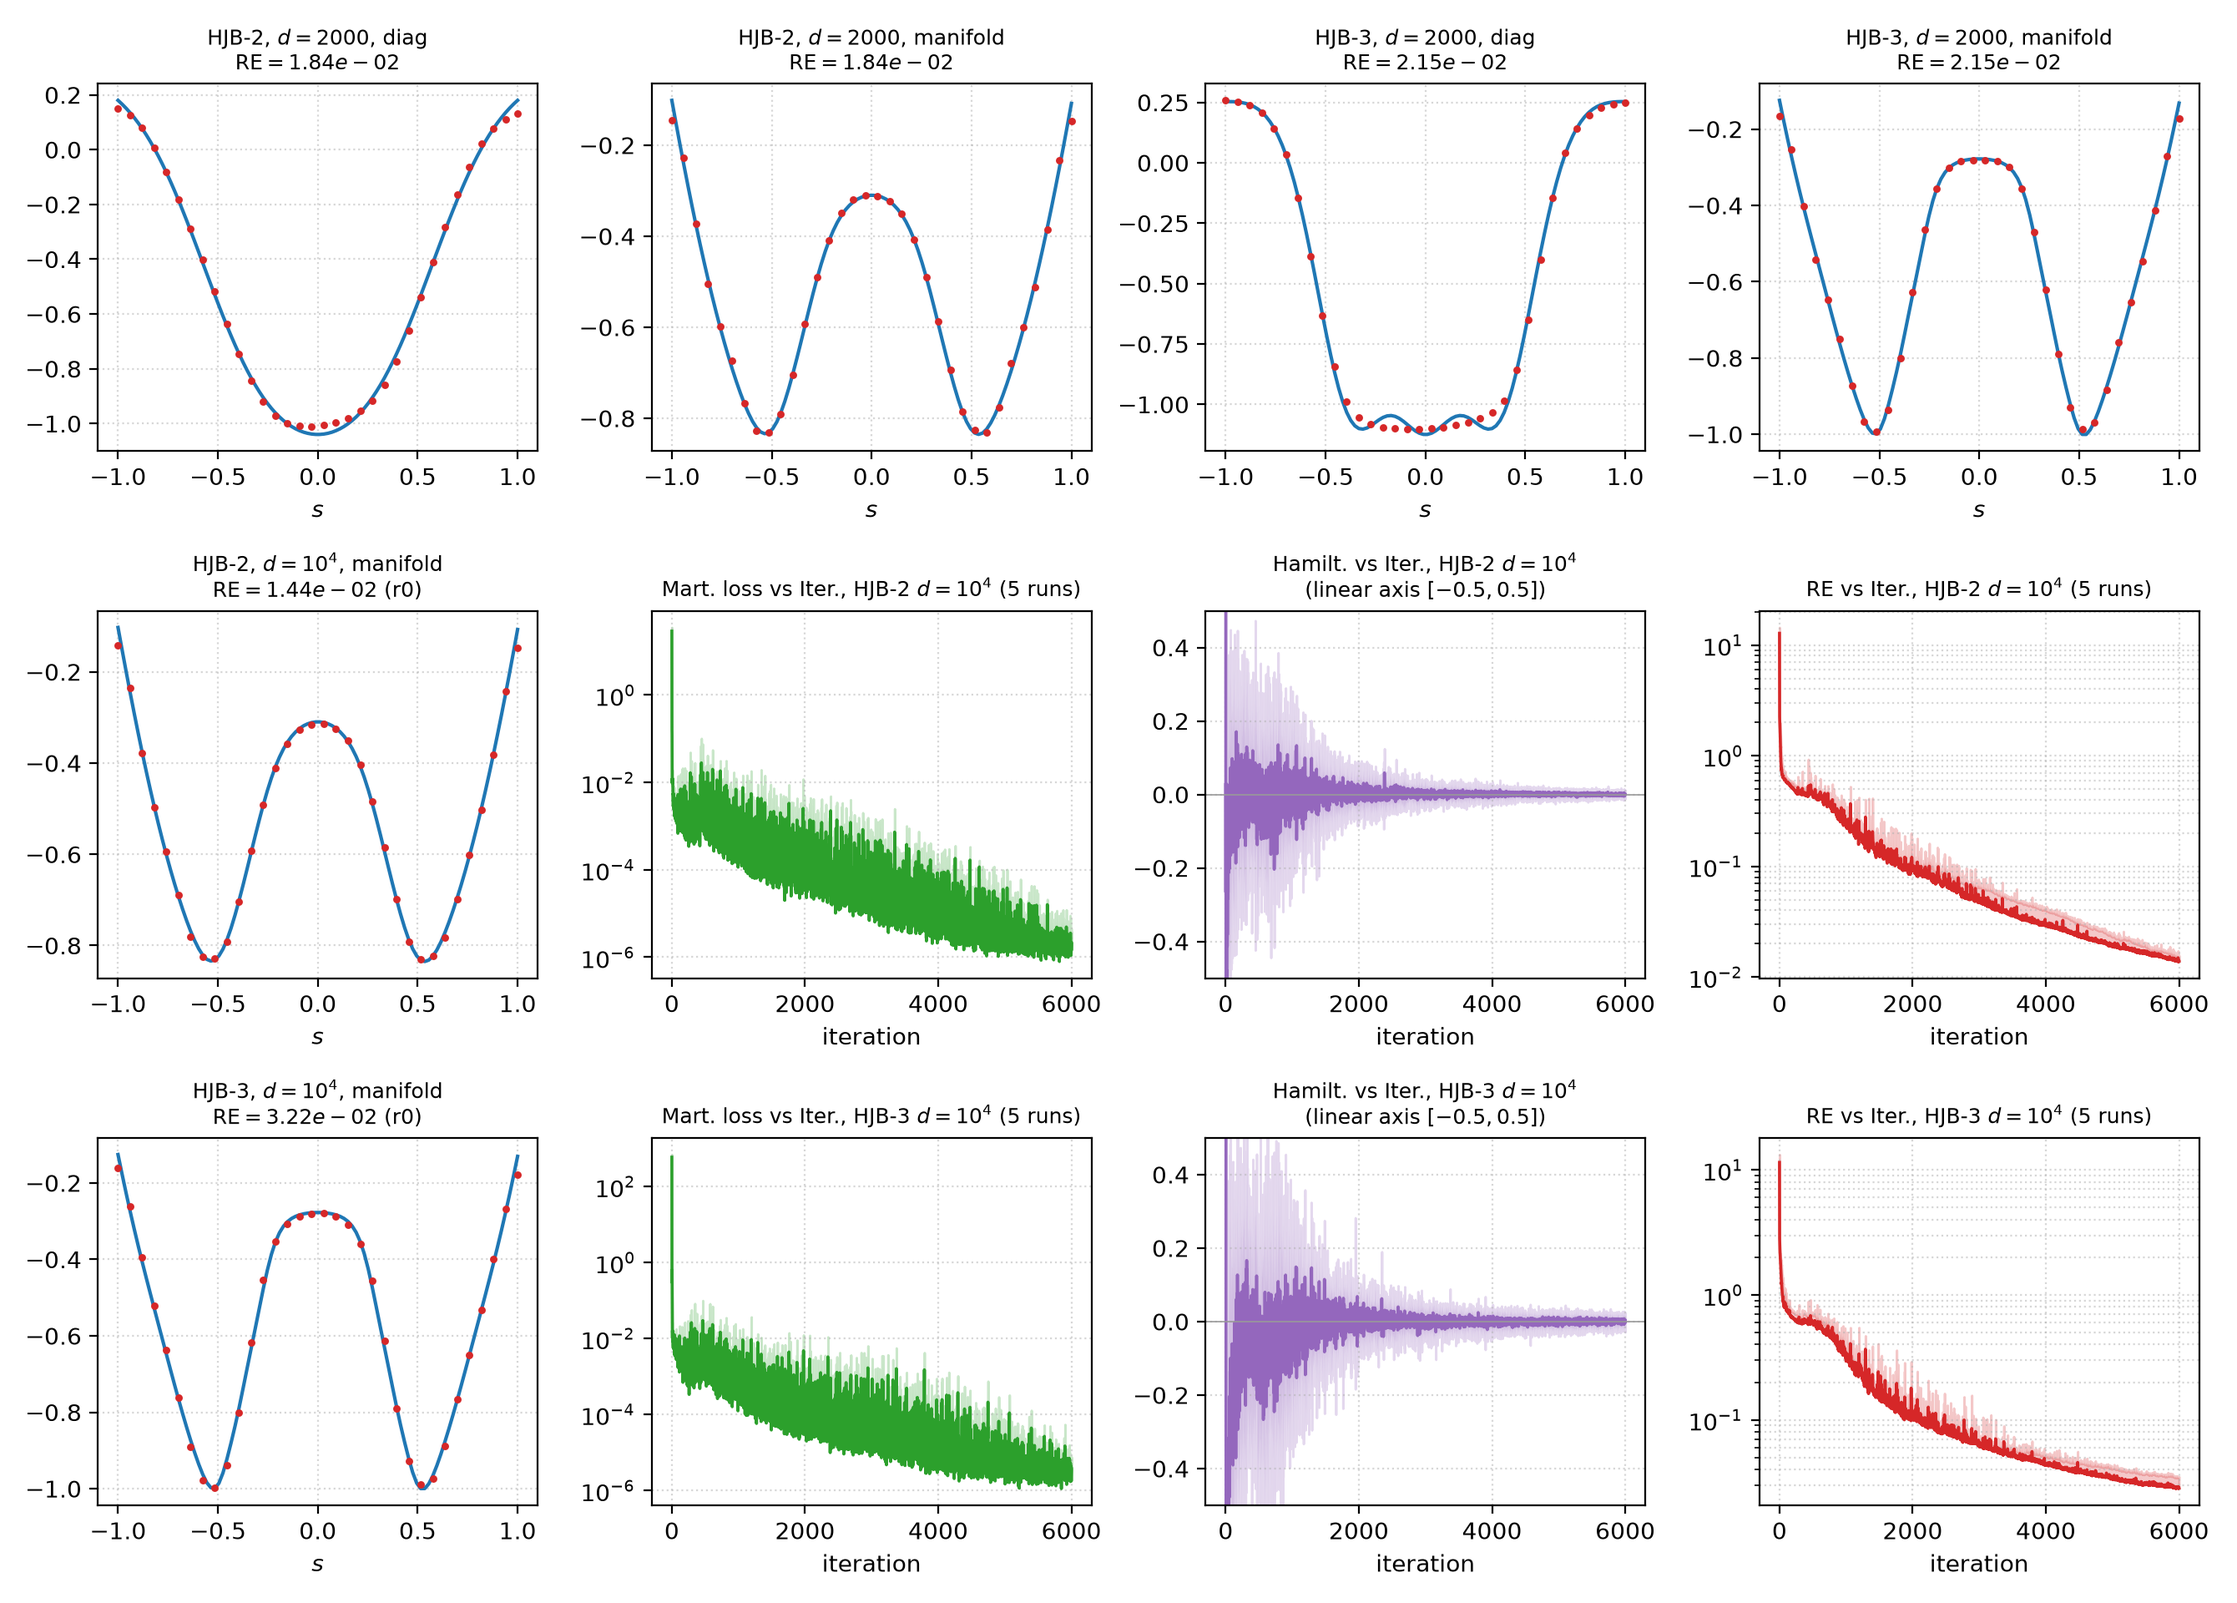
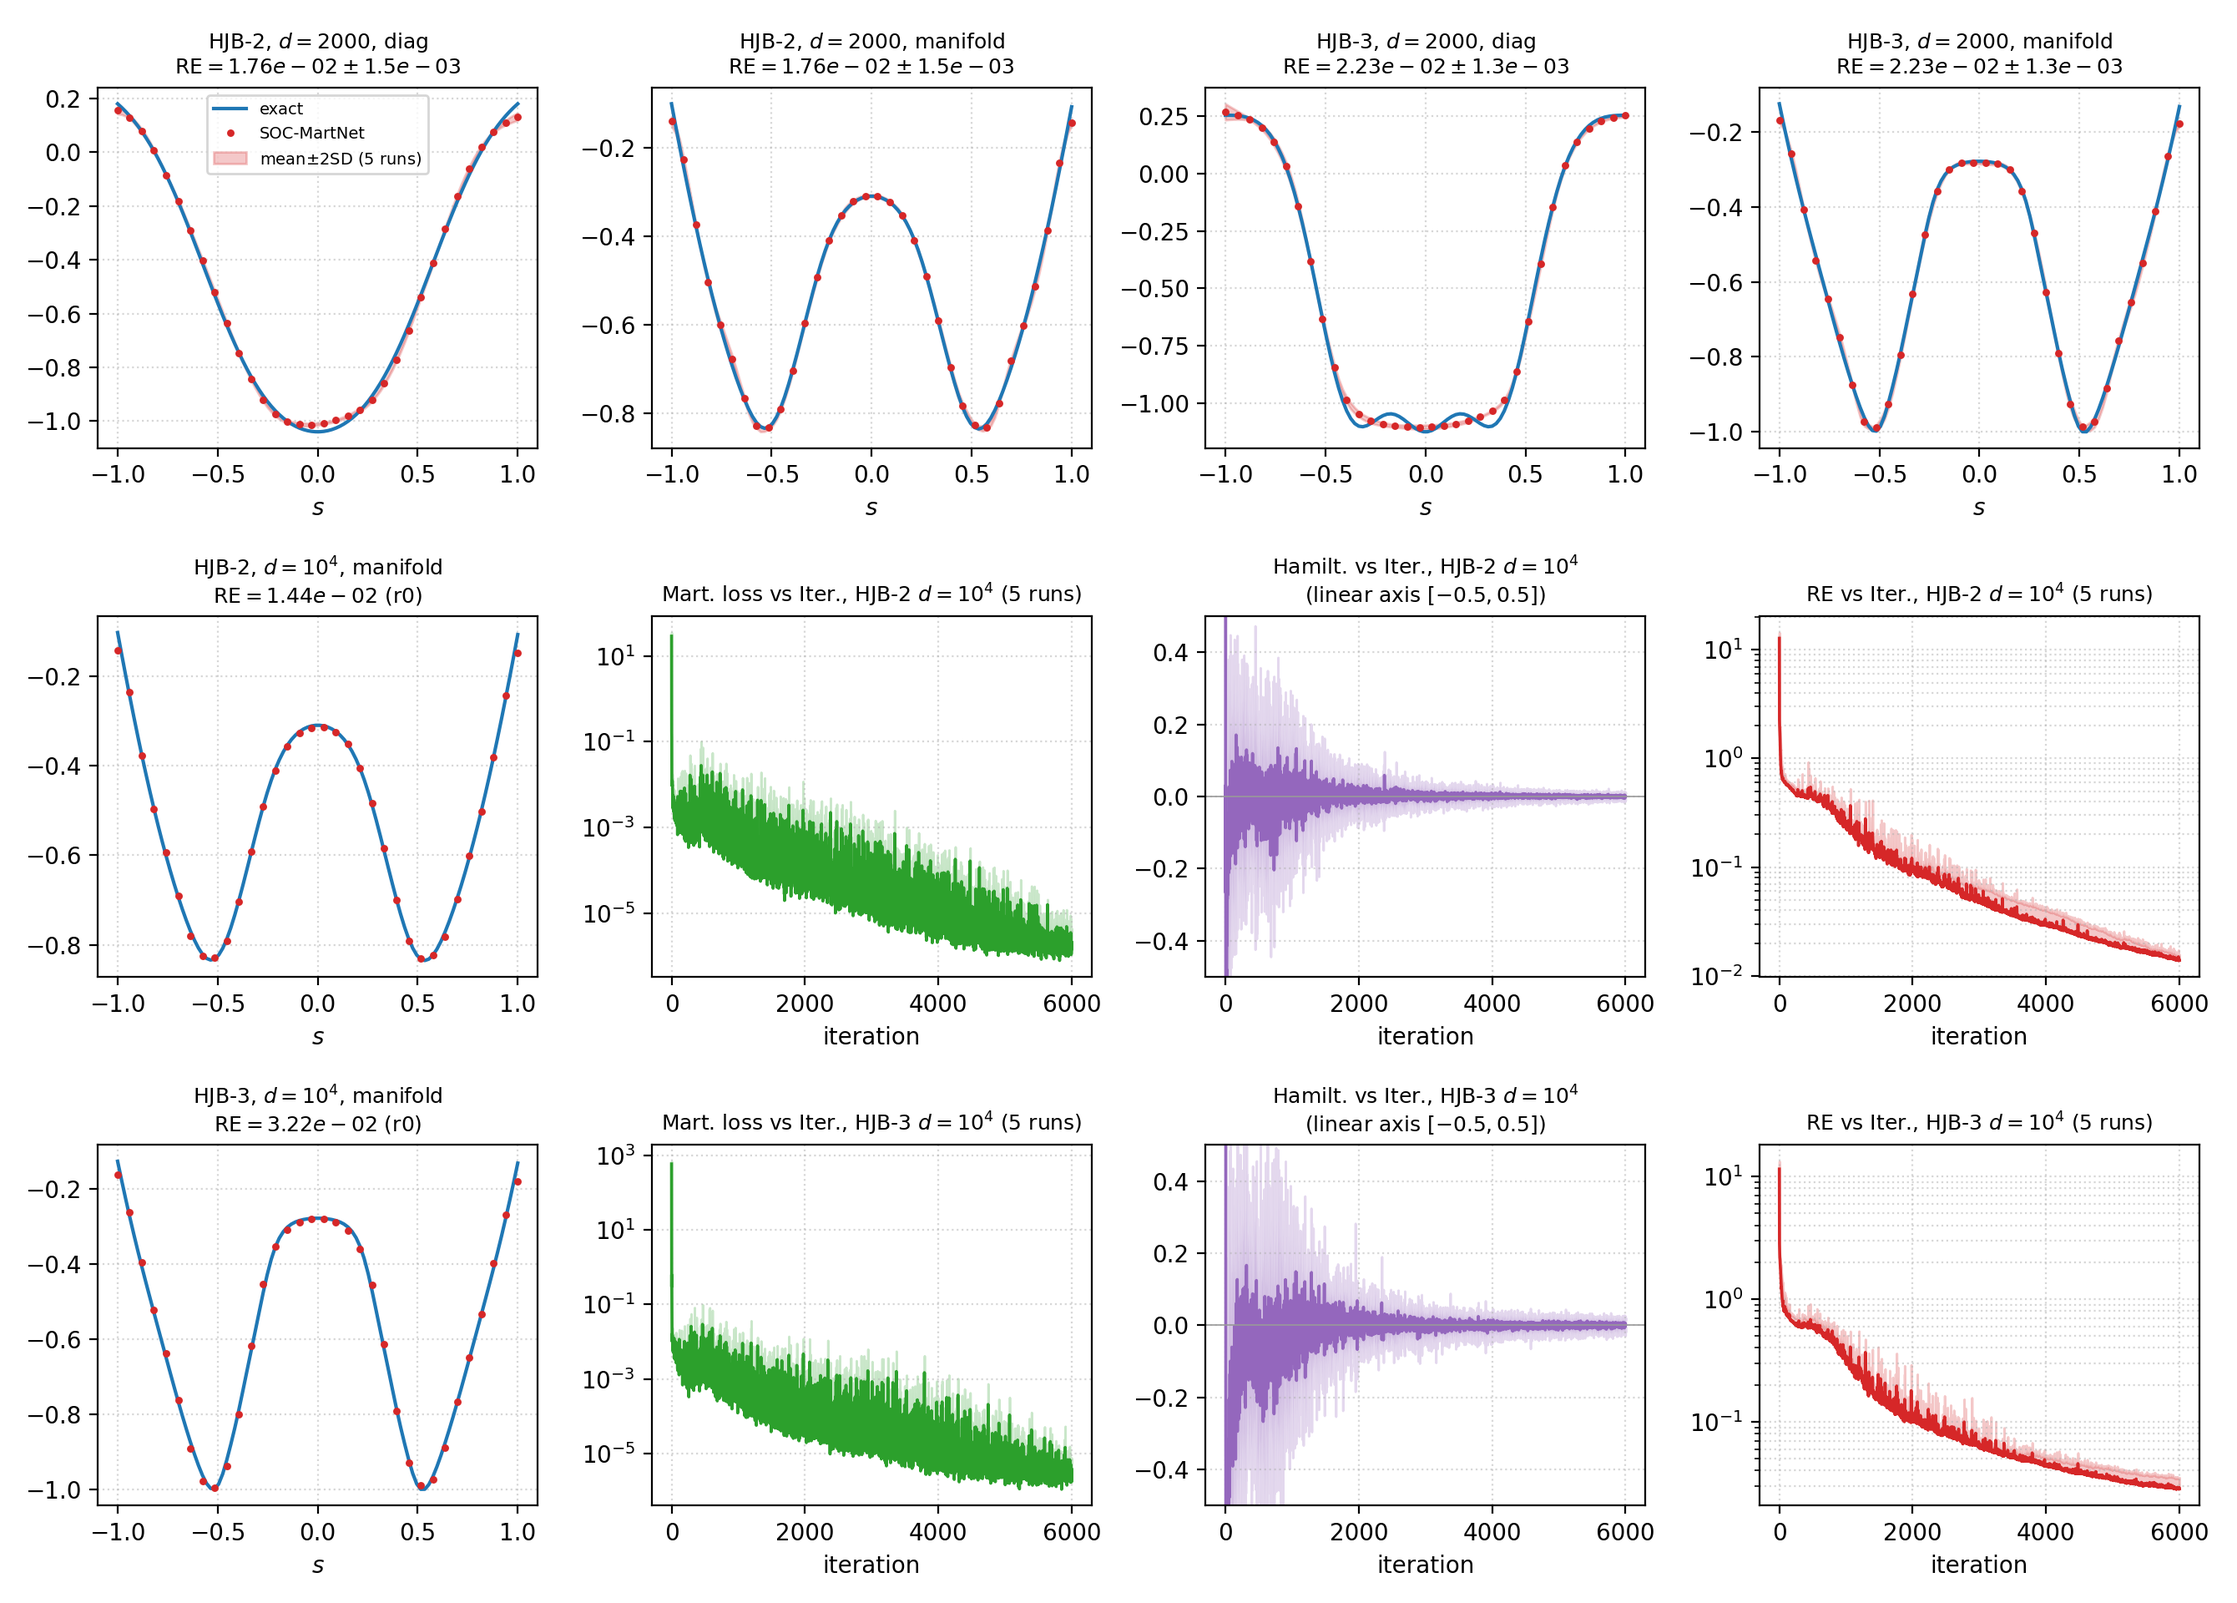
Report Sec 5.2 / paper Fig. 5: the d=2000 rows are now 5-seed results
The two d=2000 cells of paper Fig. 5 (HJB-2 / HJB-3) previously rested on
single runs; both families now have five seeds each (seed 0 keeps the
historical runs, seeds 1-4 newly run at the identical configuration:
I=8000, lr x4, 8-GPU DDP).

- REPORT.html Sec 5.2: d=2000 rows 0.01757 +- 0.00150 (HJB-2) and
  0.02227 +- 0.00132 (HJB-3); protocol note updated (every row 5
  independent runs, mean+-2SD bands); the single-run exception list in
  Sec 11 drops the Fig. 5 d=2000 rows.
- figures/fig5_hjb_highdim: the d=2000 panels now show the 5-run mean
  curve with a mean+-2SD band and RE = mean +- SD titles.
- results: new s44_d2000_5seed_agg.csv (+ builder
  plots/build_s44_d2000_agg.py, verified to rebuild it byte-identically
  from the runs/ archive); final_rows.csv indexes the 8 new runs.
- experiments: sec44_fig5_hjb23.sh drives d=2000 seeds 0-4 (20 jobs);
  experiments.csv row updated.

diff --git a/REPORT.html b/REPORT.html
@@ -116,22 +116,22 @@ d∈{100,1000,2000}×T∈{1,0.5,0.1,0.01}, I=1000, M=10⁴, path renewal 0.2, fp
 <img class="fig" src="figures/fig4_hjb1_tscan.png" alt="hjb1 terminal scan">
 <div class="figcap">Fig. 4 · reproduction of paper Fig. 4 (<code>figures/fig4_hjb1_tscan.csv</code>)</div>
 
-<h3>5.2 Paper Fig. 5 (HJB-2/-3)<span class="badge">d2000 single run + d1e4 5-seed</span></h3>
+<h3>5.2 Paper Fig. 5 (HJB-2/-3)<span class="badge">5-seed (d=2000 and d=10⁴)</span></h3>
 <table>
 <tr><th>Cell</th><th>RE (this reproduction)</th></tr>
-<tr><td>HJB-2 d=2000</td><td>0.0184</td></tr>
-<tr><td>HJB-3 d=2000</td><td>0.0215</td></tr>
+<tr><td>HJB-2 d=2000</td><td><b>0.01757 ± 0.00150</b></td></tr>
+<tr><td>HJB-3 d=2000</td><td><b>0.02227 ± 0.00132</b></td></tr>
 <tr><td>HJB-2 d=10⁴</td><td><b>0.01387 ± 0.00086</b></td></tr>
 <tr><td>HJB-3 d=10⁴</td><td><b>0.02838 ± 0.00359</b></td></tr>
 </table>
-<p class="small">Hardware: A100 (the d=10⁴ batch used 8-GPU DDP).</p>
+<p class="small">Hardware: A100, 8-GPU DDP (all rows).</p>
 <p class="small">This subsection of the paper reports illustrative results (no printed numeric anchor); the table above lists the final values of this reproduction.
-<b>Protocol notes</b>: the shaded band in paper Fig. 5 reflects five independent runs; here the two d=2000 rows are single runs and the two d=10⁴ rows use 5 seeds. The learning rates, iteration count, and batch size are not printed in the paper; the values used here are given in the parameter settings below.</p>
+<b>Protocol notes</b>: as in paper Fig. 5, every row uses 5 independent runs; the shaded bands are mean±2SD (one-sided on the log axes, per the paper caption). The learning rates, iteration count, and batch size are not printed in the paper; the values used here are given in the parameter settings below.</p>
 <p class="small"><b>Parameter settings</b>: d=2000 — I=8000, \(\bar{\lambda}\)=1000, \(\mathrm{lr}_{u}\)=2.744e-5 and
-\(\mathrm{lr}_{\rho}\)=2.744e-4 (4× the base), M=10⁴, single run; d=10⁴ — I=6000, \(W_{h}\)=10010, batch 64, \(\mathrm{lr}_{u}\)=7.571e-6 and \(\mathrm{lr}_{\rho}\)=7.571e-5 (4× the base), M=10⁴,
+\(\mathrm{lr}_{\rho}\)=2.744e-4 (4× the base), M=10⁴, seeds 0–4; d=10⁴ — I=6000, \(W_{h}\)=10010, batch 64, \(\mathrm{lr}_{u}\)=7.571e-6 and \(\mathrm{lr}_{\rho}\)=7.571e-5 (4× the base), M=10⁴,
 seeds 0–4. Full command lines in <code>experiments/sec44_fig5_hjb23.sh</code>.</p>
 <img class="fig" src="figures/fig5_hjb_highdim.png" alt="HJB high-dim">
-<div class="figcap">Fig. 5 · reproduction of paper Fig. 5 (3×4 twelve-panel layout matching the paper; Mart/RE on log axes with one-sided mean+2SD bands, Hamilt. on a linear axis, per the paper caption; <code>figures/fig5_hjb_highdim.csv</code>)</div>
+<div class="figcap">Fig. 5 · reproduction of paper Fig. 5 (3×4 twelve-panel layout matching the paper; d=2000 curves show the 5-run mean with mean±2SD bands; Mart/RE on log axes use one-sided mean+2SD bands, per the paper caption; <code>figures/fig5_hjb_highdim.csv</code>)</div>
 
 <h2 id="s45">6. §4.5 Space-time domain validity (paper Fig. 6)</h2>
 <table>
@@ -255,7 +255,7 @@ bash slurm/submit_job.sh fig5_hjb2_d1e4_s1 \
   --seed 1 --tag fig5_hjb2_d1e4_s1
 # 3) Success check: sacct COMPLETED alone is not sufficient; the CSV line count is authoritative (6000 iterations → 6002 lines)
 # 4) Compare against reference values: aggregate CSVs and final_rows.csv under results/</code></pre>
-<p class="small">Environment: Python 3.12 everywhere; PyTorch 2.11.0+cu128 (A100 cluster) / 2.6.0+cu124 (RTX 4090 cluster); RMSprop; fp32; multi-GPU DDP. Accuracy sections use ≥5 seeds (0–4) per cell; the single-run exceptions are paper Table 2, all 12 cells of paper Fig. 4, and the two d=2000 rows of paper Fig. 5.</p>
+<p class="small">Environment: Python 3.12 everywhere; PyTorch 2.11.0+cu128 (A100 cluster) / 2.6.0+cu124 (RTX 4090 cluster); RMSprop; fp32; multi-GPU DDP. Accuracy sections use ≥5 seeds (0–4) per cell; the single-run exceptions are paper Table 2 and all 12 cells of paper Fig. 4.</p>
 
 </div></body>
 </html>

diff --git a/plots/plot_fig5_hjb_highdim.py b/plots/plot_fig5_hjb_highdim.py
@@ -1,6 +1,6 @@
 #!/usr/bin/env python3
 """Paper Fig. 5 (Sec 4.4, full 3x4 layout mirroring the accepted paper):
-  row 1 (d=2000, r0 single-run curves, final configuration):
+  row 1 (d=2000, 5-seed mean curves with mean+-2SD bands):
     (a) HJB-2 diag  (b) HJB-2 manifold  (c) HJB-3 diag  (d) HJB-3 manifold
   row 2 (HJB-2, d=1e4): (e) manifold r0 curve, (f) Mart. loss vs iter,
     (g) Hamiltonian vs iter -- LINEAR y-axis fixed to [-0.5, 0.5],
@@ -8,9 +8,11 @@
   row 3 (HJB-3, d=1e4): (i) manifold r0 curve, (j)-(l) same histories.
   History panels: mean across 5 seeds; log-axis panels (Mart loss, RE)
   use the one-sided mean..mean+2SD band (paper caption: "mean + 2 x SD");
-  the linear-axis Hamiltonian panel uses mean+-2SD clipped to the fixed
-  range.
-Data: d2000 = 496285/496291 (lam1000+lr4x+I8000);
+  linear-axis panels (Hamiltonian, d=2000 value curves) use two-sided
+  mean+-2SD bands.
+Data: d2000 = 5 seeds each -- HJB-2 496285 (s0) + 534414/534417/534418/534419
+      (s1-4); HJB-3 496291 (s0) + 534420/534421/534422/534423 (s1-4)
+      (lam1000+lr4x+I8000);
       HJB-2 d1e4 = 496434 (seed0, the selected batch-64 scan arm)
                    + 500699/701/703/705 (seeds 1-4);
       HJB-3 d1e4 = 496436 (seed0, the selected batch-64 scan arm)
@@ -24,8 +26,10 @@ import matplotlib.pyplot as plt
 import numpy as np
 import pandas as pd
 
-D2000 = [('HJB-2', 'diag', 496285), ('HJB-2', 'manifold', 496285),
-         ('HJB-3', 'diag', 496291), ('HJB-3', 'manifold', 496291)]
+D2000 = [('HJB-2', 'diag', [496285, 534414, 534417, 534418, 534419]),
+         ('HJB-2', 'manifold', [496285, 534414, 534417, 534418, 534419]),
+         ('HJB-3', 'diag', [496291, 534420, 534421, 534422, 534423]),
+         ('HJB-3', 'manifold', [496291, 534420, 534421, 534422, 534423])]
 D1E4 = {'HJB-2': [496434, 500699, 500701, 500703, 500705],
         'HJB-3': [496436, 500700, 500702, 500704, 500706]}
 HAM_LIM = (-0.5, 0.5)
@@ -33,21 +37,34 @@ HAM_LIM = (-0.5, 0.5)
 fig, axes = plt.subplots(3, 4, figsize=(13.4, 9.6))
 rows = []
 
-# ---- row 1: d2000 r0 curves ------------------------------------------------
-for k, (eq, cv, j) in enumerate(D2000):
+# ---- row 1: d2000 curves, 5-seed mean +- 2SD -------------------------------
+for k, (eq, cv, jobs) in enumerate(D2000):
     ax = axes[0, k]
-    f = glob.glob(f'runs/{j}/outputs/*curve_{cv}.csv')[0]
-    df = pd.read_csv(f)
-    fh = [x for x in glob.glob(f'runs/{j}/outputs/*.csv') if 'curve' not in x][0]
-    re_f = pd.read_csv(fh).error.iloc[-1]
-    ax.plot(df.s, df.v_true, '-', color='#1f77b4', lw=1.5, label='exact')
-    ax.plot(df.s, df.v_pred, 'o', ms=2.2, color='#d62728', markevery=3,
+    vp, res = [], []
+    for j in jobs:
+        f = glob.glob(f'runs/{j}/outputs/*curve_{cv}.csv')[0]
+        vp.append(pd.read_csv(f).v_pred.to_numpy())
+        fh = [x for x in glob.glob(f'runs/{j}/outputs/*.csv')
+              if 'curve' not in x][0]
+        res.append(pd.read_csv(fh).error.iloc[-1])
+    df0 = pd.read_csv(glob.glob(f'runs/{jobs[0]}/outputs/*curve_{cv}.csv')[0])
+    m, sd = np.mean(vp, 0), np.std(vp, 0)
+    ax.plot(df0.s, df0.v_true, '-', color='#1f77b4', lw=1.5, label='exact')
+    ax.plot(df0.s, m, 'o', ms=2.2, color='#d62728', markevery=3,
             label='SOC-MartNet')
-    ax.set_title(rf'{eq}, $d=2000$, {cv}' + '\n' + rf'RE$={re_f:.2e}$',
+    ax.fill_between(df0.s, m - 2 * sd, m + 2 * sd, color='#d62728',
+                    alpha=0.25, label=r'mean$\pm$2SD (5 runs)')
+    ax.set_title(rf'{eq}, $d=2000$, {cv}' + '\n' +
+                 rf'RE$ = {np.mean(res):.2e} \pm {np.std(res, ddof=1):.1e}$',
                  fontsize=9)
     ax.grid(ls=':', alpha=0.5)
     ax.set_xlabel('$s$')
-    rows.append(dict(eq=eq, d=2000, curve=cv, jobid=j, RE=float(re_f)))
+    if k == 0:
+        ax.legend(fontsize=7, loc='best')
+    rows.append(dict(eq=eq, d=2000, curve=cv,
+                     jobid=';'.join(map(str, jobs)),
+                     RE=float(np.mean(res)),
+                     RE_sd=float(np.std(res, ddof=1))))
 
 # ---- rows 2-3: d1e4 per equation -------------------------------------------
 def d1e4_block(row, eq):
@@ -115,7 +132,10 @@ def d1e4_block(row, eq):
 d1e4_block(1, 'HJB-2')
 d1e4_block(2, 'HJB-3')
 
+import os
+OUT_DIR = os.environ.get('OUT_DIR', 'tmp_convfig/figs')
+os.makedirs(OUT_DIR, exist_ok=True)
 fig.tight_layout()
-fig.savefig('tmp_convfig/figs/fig5_hjb_highdim.png', dpi=200)
-pd.DataFrame(rows).to_csv('tmp_convfig/figs/fig5_hjb_highdim.csv', index=False)
+fig.savefig(f'{OUT_DIR}/fig5_hjb_highdim.png', dpi=200)
+pd.DataFrame(rows).to_csv(f'{OUT_DIR}/fig5_hjb_highdim.csv', index=False)
 print(pd.DataFrame(rows).to_string(index=False))

diff --git a/plots/build_s44_d2000_agg.py b/plots/build_s44_d2000_agg.py
@@ -1,0 +1,48 @@
+#!/usr/bin/env python3
+"""Sec 4.4 d=2000 5-seed aggregation (final configuration: lr4x + I=8000).
+
+seed0 = the historical single runs (496285 hjb2 / 496291 hjb3, tag
+s44g_hjb{eq}_lr4); seeds 1-4 = tags s44g_hjb{eq}_lr4_s{k}. Archived anchors:
+SOCMN144/143 d2000 summary final rel_l1err (5-run mean).
+Run from the repo root (needs the runs/ mirror); writes
+results/s44_d2000_5seed_agg.csv.
+"""
+import csv
+import glob
+import os
+
+JOBS = {
+    'hjb2_d2000': [496285, 534414, 534417, 534418, 534419],
+    'hjb3_d2000': [496291, 534420, 534421, 534422, 534423],
+}
+ARCH = {'hjb2_d2000': 0.012809664439327841,
+        'hjb3_d2000': 0.032892168136345595}
+
+
+def final_error(jobid):
+    fs = [x for x in glob.glob(f'runs/{jobid}/outputs/*.csv')
+          if 'curve' not in os.path.basename(x)]
+    with open(fs[0]) as fh:
+        last = fh.read().strip().splitlines()[-1].split(',')
+    hdr = open(fs[0]).readline().split(',')
+    return float(dict(zip(hdr, last))['error'])
+
+
+rows = [('cell', 'config', 'arch_anchor', 's0', 's1', 's2', 's3', 's4',
+         'mean', 'sd', 'ratio_vs_arch', 'jobids')]
+for cell, jobs in JOBS.items():
+    vals = [final_error(j) for j in jobs]
+    mean = sum(vals) / len(vals)
+    sd = (sum((v - mean) ** 2 for v in vals) / (len(vals) - 1)) ** 0.5
+    rows.append((cell, 'lr4x_I8000', f'{ARCH[cell]:.5f}') +
+                tuple(f'{v:.5f}' for v in vals) +
+                (f'{mean:.5f}', f'{sd:.5f}', f'{mean / ARCH[cell]:.2f}',
+                 ';'.join(map(str, jobs))))
+
+out = os.path.join(os.path.dirname(os.path.abspath(__file__)), os.pardir,
+                   'results', 's44_d2000_5seed_agg.csv')
+with open(out, 'w', newline='\n') as fh:
+    csv.writer(fh).writerows(rows)
+for r in rows:
+    print(*r, sep=' | ')
+print('wrote', os.path.normpath(out))

diff --git a/README.md b/README.md
@@ -40,7 +40,7 @@ The paper's preprint is available on arXiv: [https://arxiv.org/abs/2405.03169](h
 | `experiments/` | Exact producing command lines per experiment family (`experiments.csv`) + single-case reproduction scripts (headers state coverage / reference values / expected CSV line count) + the driver `reproduce_all.sh` + `smoke_test.sh` |
 | `results/` | Aggregate CSVs + the raw final-row extracts (`t2b_raw_final.txt`, `t1e*_raw_final.txt`) + `final_rows.csv` (per-run final-row evidence) |
 | `figures/` | Figure PNGs + per-figure summary-data CSVs |
-| `plots/` | Plotting/aggregation scripts: `plot_*.py` and `build_final_rows.py` / `build_s44_d1e4_agg.py` expect the archival `runs/<jobid>/outputs` layout; `build_t1e_final_table.py` / `build_t2b_agg.py` re-aggregate the raw extracts in `results/` (default: check against the shipped files without writing; `--write` regenerates) |
+| `plots/` | Plotting/aggregation scripts: `plot_*.py` and `build_final_rows.py` / `build_s44_d1e4_agg.py` / `build_s44_d2000_agg.py` expect the archival `runs/<jobid>/outputs` layout; `build_t1e_final_table.py` / `build_t2b_agg.py` re-aggregate the raw extracts in `results/` (default: check against the shipped files without writing; `--write` regenerates) |
 
 ## Reproduction guide
 
